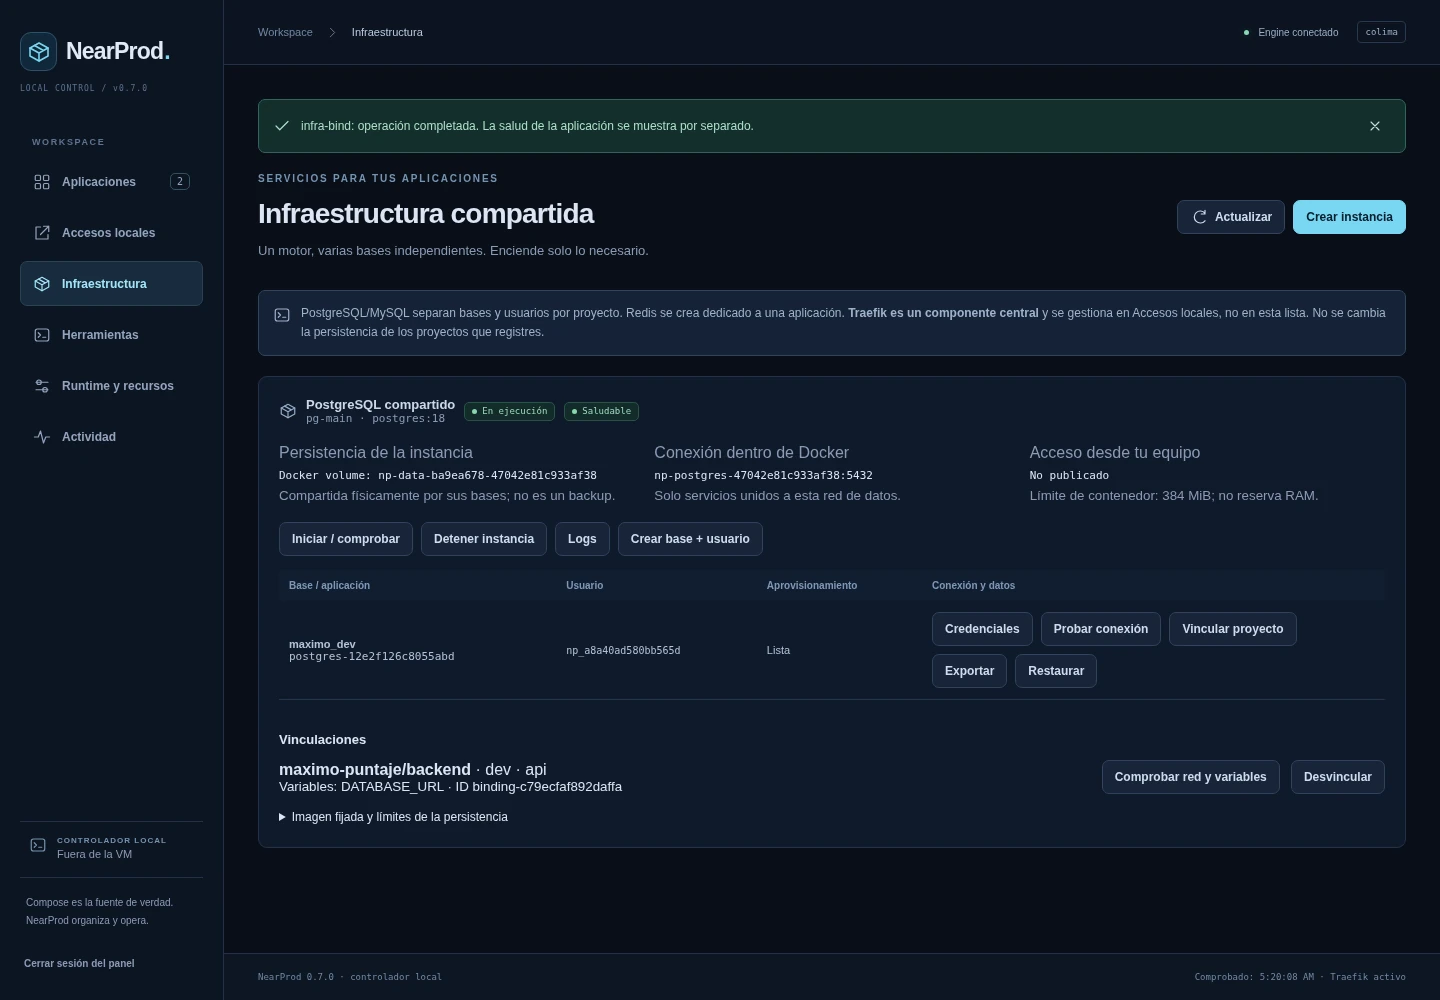
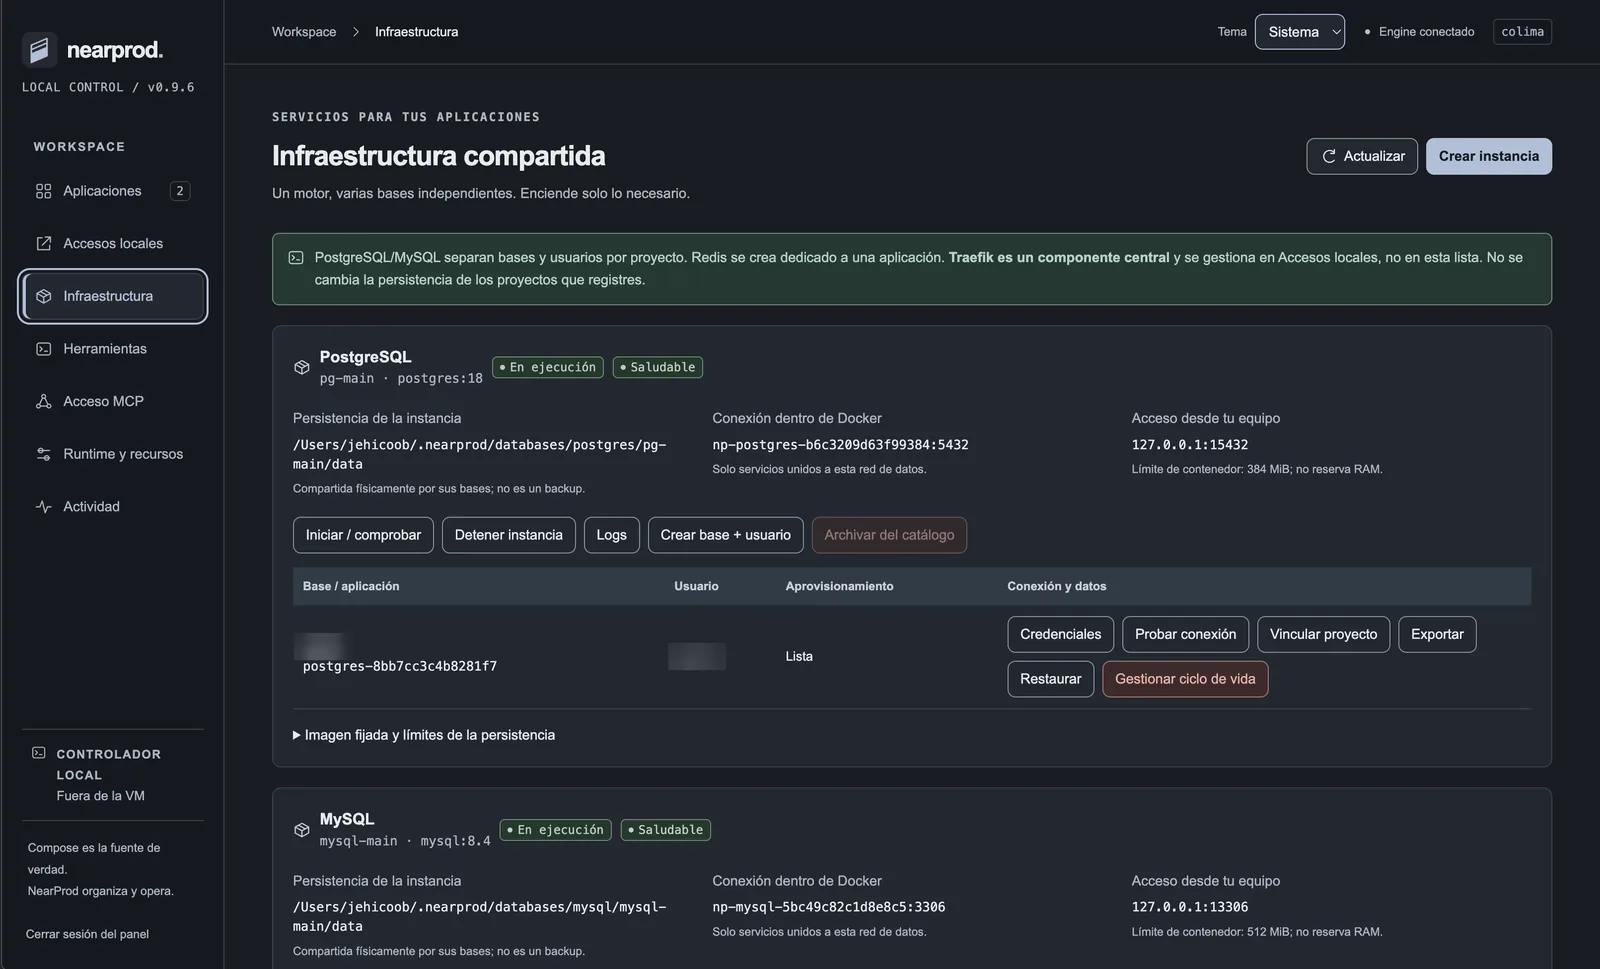
docs(readme): usar capturas reales del panel 0.9.6
Sustituye las capturas de la 0.7.0 por las de la 0.9.6 (aplicaciones,
infraestructura compartida y acceso MCP). En la de infraestructura se
difuminan el nombre de la base y el usuario de un proyecto de cliente.

diff --git a/README.md b/README.md
@@ -47,12 +47,14 @@ El panel genera este bloque con la ruta real del binario en **Acceso MCP**. Deta
 
 ## Capturas
 
+Panel de la versión 0.9.6.
+
 | Aplicaciones | Infraestructura compartida |
 |---|---|
-| <img src="docs/assets/product-projects.webp" alt="Panel de aplicaciones con grupos, estado, acceso por Traefik y actividad reciente" width="420"> | <img src="docs/assets/product-infrastructure.webp" alt="Instancia PostgreSQL compartida con bases, usuarios y vinculaciones por proyecto" width="420"> |
+| <img src="docs/assets/product-projects.webp" alt="Panel de aplicaciones: un grupo con su API en ejecución y saludable, modo de desarrollo, acciones y acceso local por Traefik" width="420"> | <img src="docs/assets/product-infrastructure.webp" alt="Instancias compartidas de PostgreSQL y MySQL con persistencia, conexión dentro de Docker y una base y un usuario por proyecto" width="420"> |
 
 <p align="center">
-  <img src="docs/assets/product-settings.webp" alt="Herramientas del equipo: Docker CLI, Compose, Buildx y Colima detectados, configuración persistente e inicio en macOS" width="640">
+  <img src="docs/assets/product-mcp.webp" alt="Acceso MCP: servidor listo por stdio, sin cuentas ni nube, con la configuración del cliente lista para copiar" width="640">
 </p>
 
 ## Arquitectura
